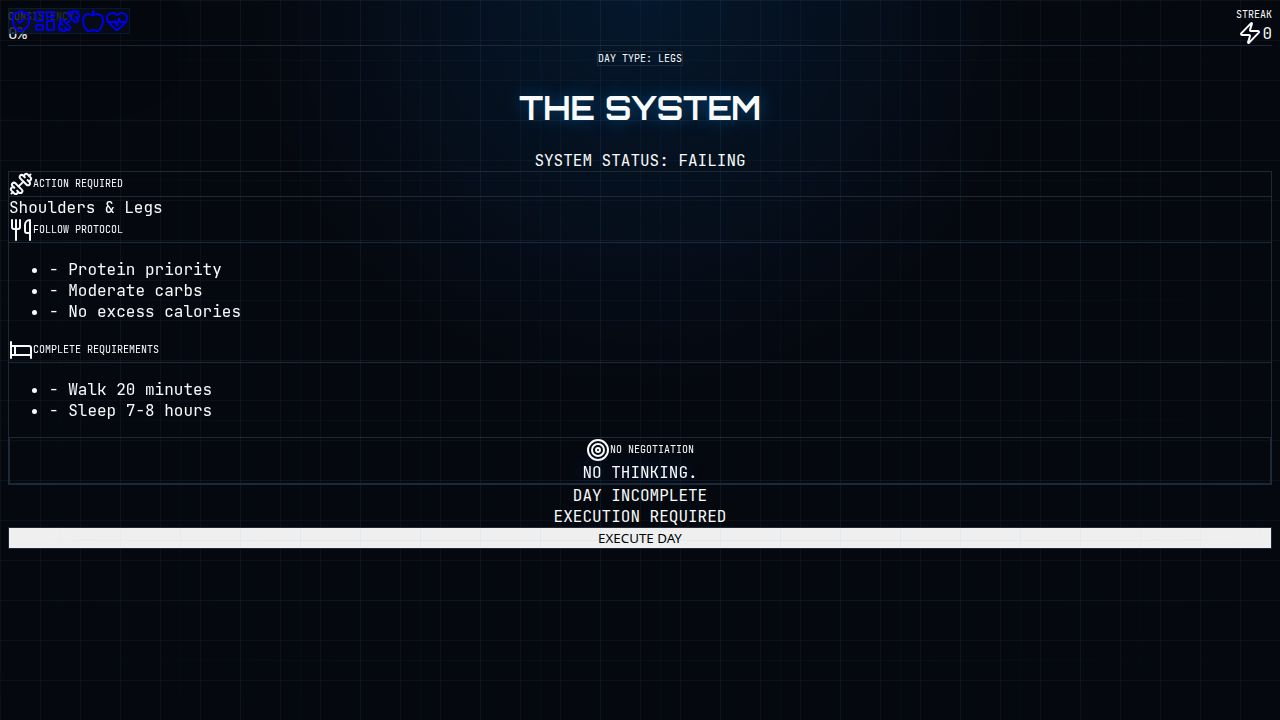
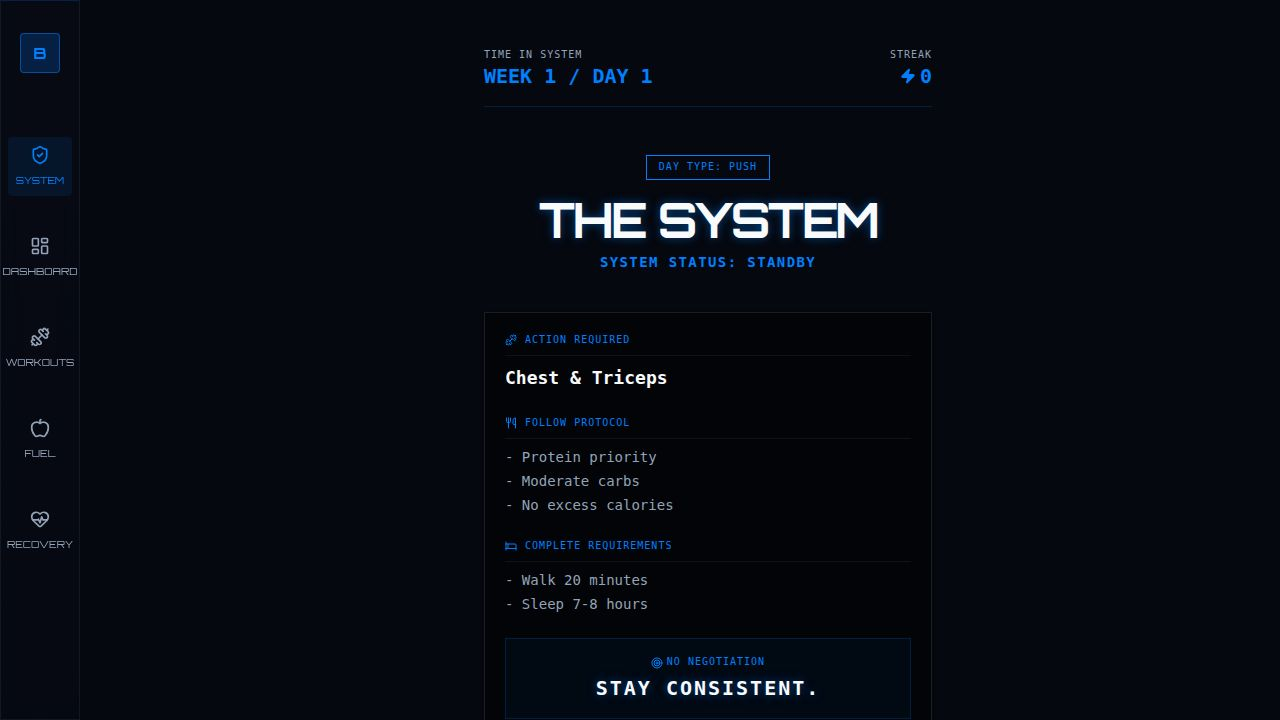
Update workout progression to advance based on completed days
Refactor workout cycle logic in `blueprint.tsx` and `home.tsx` to use `state.completedDays` instead of `Date.now()` for calculating current week, day, and workout cycle progression, ensuring workouts advance sequentially after successful completion.

Replit-Commit-Author: Agent
Replit-Commit-Session-Id: 25b280e0-415f-4aa2-aa81-2b472545ac74
Replit-Commit-Checkpoint-Type: full_checkpoint
Replit-Commit-Event-Id: 931cdfa0-6d43-461e-9b00-192d60aa0e17
Replit-Commit-Screenshot-Url: https://storage.googleapis.com/screenshot-production-us-central1/e563b148-b593-4327-8bd6-2846d65d3909/25b280e0-415f-4aa2-aa81-2b472545ac74/szsiTNX
Replit-Helium-Checkpoint-Created: true

diff --git a/client/src/pages/home.tsx b/client/src/pages/home.tsx
@@ -20,11 +20,11 @@ export default function Home() {
 
   // Generate daily protocol based on system execution logic
   useEffect(() => {
-    // Simple cycle based on day of year for demo purposes
-    const dayOfYear = Math.floor((new Date().getTime() - new Date(new Date().getFullYear(), 0, 0).getTime()) / 1000 / 60 / 60 / 24);
+    // Determine the current cycle step based on the number of completed days.
+    // This means the user stays on their current workout until they log a successful execution.
     
     // Check if in phase 1 (first 84 days) or phase 2 (after 84 days)
-    const isPhase2 = state.totalDays >= 84;
+    const isPhase2 = state.completedDays >= 84;
     
     if (isPhase2 && !state.hasSeenPhase2Celebration) {
       setShowPhaseCelebration(true);
@@ -33,17 +33,17 @@ export default function Home() {
     let cycle;
     if (isPhase2) {
       // Phase 2: Hypertrophy Focus (Push/Pull/Legs/Upper/Lower/Rest)
-      cycle = ["PUSH", "PULL", "LEGS", "UPPER", "LOWER", "REST"][dayOfYear % 6] as any;
+      cycle = ["PUSH", "PULL", "LEGS", "UPPER", "LOWER", "REST"][state.completedDays % 6] as any;
     } else {
       // Phase 1: Foundation (Push/Pull/Legs/Arms/Rest)
-      cycle = ["PUSH", "PULL", "LEGS", "ARMS", "REST"][dayOfYear % 5] as any;
+      cycle = ["PUSH", "PULL", "LEGS", "ARMS", "REST"][state.completedDays % 5] as any;
     }
     
     setDayType(cycle);
 
     const focusLines = ["Execute.", "No negotiation.", "Stay consistent.", "Repeat.", "No thinking."];
     setFocusLine(focusLines[Math.floor(Math.random() * focusLines.length)]);
-  }, [state.totalDays]);
+  }, [state.completedDays, state.hasSeenPhase2Celebration]);
 
   const getWorkout = () => {
     if (dayType === "PUSH") return "Chest & Triceps";
@@ -106,14 +106,17 @@ export default function Home() {
     });
   };
 
+  const currentWeek = Math.floor(state.completedDays / 7) + 1;
+  const currentDay = (state.completedDays % 7) + 1;
+
   return (
     <div className="min-h-screen bg-background flex flex-col items-center py-12 px-6 font-mono text-sm md:pl-20">
       
       {/* Top Bar Stats */}
       <div className="w-full max-w-md flex justify-between items-center mb-12 border-b border-primary/20 pb-4">
         <div className="flex flex-col">
-          <span className="text-muted-foreground uppercase tracking-widest text-[10px]">CONSISTENCY</span>
-          <span className="text-xl font-bold text-primary">{state.totalDays > 0 ? Math.round((state.completedDays / state.totalDays) * 100) : 0}%</span>
+          <span className="text-muted-foreground uppercase tracking-widest text-[10px]">TIME IN SYSTEM</span>
+          <span className="text-xl font-bold text-primary">WEEK {currentWeek} / DAY {currentDay}</span>
         </div>
         <div className="flex flex-col text-right">
           <span className="text-muted-foreground uppercase tracking-widest text-[10px]">STREAK</span>

diff --git a/client/src/pages/blueprint.tsx b/client/src/pages/blueprint.tsx
@@ -12,24 +12,24 @@ import { useSystem } from "@/hooks/use-system";
 
 export default function Blueprint() {
   const { state } = useSystem();
-  const currentWeek = Math.floor(state.totalDays / 7) + 1;
-  const currentDay = (state.totalDays % 7) + 1;
-  const isPhase2 = state.totalDays >= 84;
+  // Calculate current week and day based on completed days
+  // e.g., if completedDays is 0, week is 1 and day is 1.
+  const currentWeek = Math.floor(state.completedDays / 7) + 1;
+  const currentDay = (state.completedDays % 7) + 1;
+  const isPhase2 = state.completedDays >= 84;
   const phaseCompletion = isPhase2 ? 100 : Math.min(100, Math.round((state.completedDays / 84) * 100)); // 12 weeks = 84 days
-  
-  const dayOfYear = Math.floor((new Date().getTime() - new Date(new Date().getFullYear(), 0, 0).getTime()) / 1000 / 60 / 60 / 24);
   
   let cycleName = "";
   let cycleDuration = "";
   let cycleType = "";
   
   if (isPhase2) {
-    const p2Cycle = ["Push: Chest & Triceps", "Pull: Back & Biceps", "Shoulders & Legs", "Upper Body Power", "Lower Body Power", "Active Recovery"][dayOfYear % 6];
+    const p2Cycle = ["Push: Chest & Triceps", "Pull: Back & Biceps", "Shoulders & Legs", "Upper Body Power", "Lower Body Power", "Active Recovery"][state.completedDays % 6];
     cycleName = p2Cycle;
     cycleDuration = p2Cycle === "Active Recovery" ? "45 Min" : "65-75 Min";
     cycleType = p2Cycle === "Active Recovery" ? "Recovery" : "Hypertrophy / Power";
   } else {
-    const p1Cycle = ["Push: Chest & Triceps", "Pull: Back & Biceps", "Shoulders & Legs", "Strict Arms", "Active Recovery"][dayOfYear % 5];
+    const p1Cycle = ["Push: Chest & Triceps", "Pull: Back & Biceps", "Shoulders & Legs", "Strict Arms", "Active Recovery"][state.completedDays % 5];
     cycleName = p1Cycle;
     cycleDuration = p1Cycle === "Active Recovery" || p1Cycle === "Strict Arms" ? "45 Min" : "60-75 Min";
     cycleType = p1Cycle === "Active Recovery" ? "Recovery" : "Foundation";
